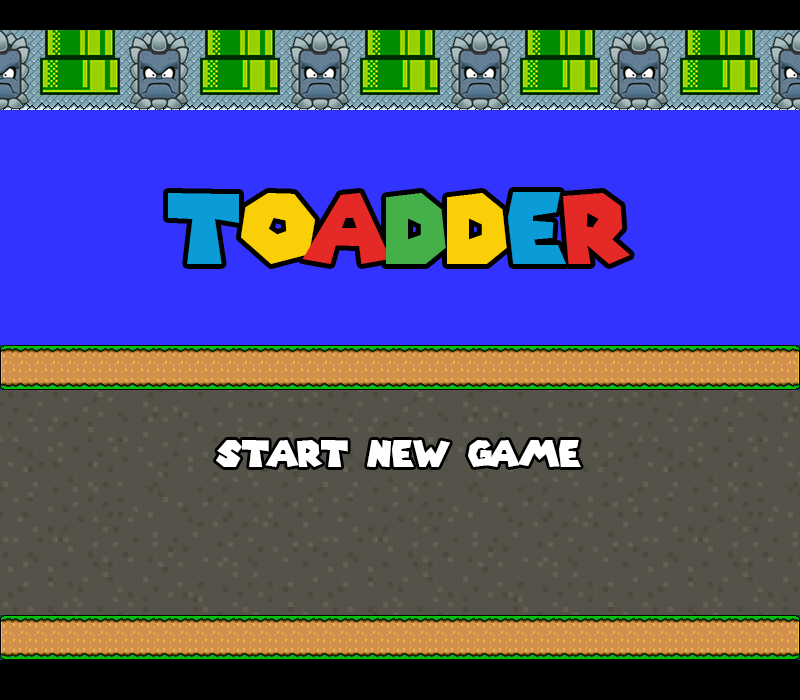
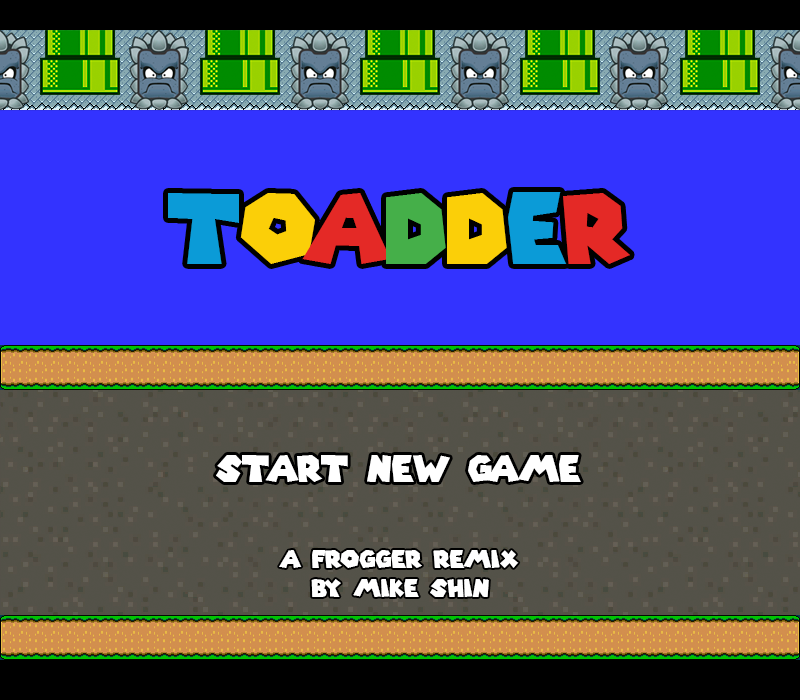
aligned link text with click listener

Changed region(s): [[0.25, 0.6, 0.75, 0.69], [0.3438, 0.78, 0.6562, 0.87]]

diff --git a/lib/toadder.js b/lib/toadder.js
@@ -22,14 +22,14 @@ document.addEventListener("DOMContentLoaded", function(){
     links.forEach(function(link) {
       ctx.fillStyle = "#ffffff";
       ctx.font = "20px sans-serif";
-      ctx.fillText(link.text, link.xPos, link.yPos);
+      ctx.fillText(link.text, link.xPos, link.yPos + 20);
     });
   };
 
 
   canvasEl.addEventListener("click", function(event){
     var game = new Game();
-    var button = { yPos: 430, xPos: 200, xDim: 400, yDim: 60 };
+    var button = { yPos: 445, xPos: 200, xDim: 400, yDim: 60 };
 
     var x = event.pageX - canvasElLeft,
         y = event.pageY - canvasElTop;
@@ -61,7 +61,10 @@ document.addEventListener("DOMContentLoaded", function(){
 });
 
 links.push(
-  { url: "http://michaelkshin.com", text: "michaelkshin.com", xPos: 50, yPos: 680, yDim: 20 },
-  { url: "http://github.com/whomikeshin", text: "github/whomikeshin", xPos: 300, yPos: 680, yDim: 20 },
-  { url: "https://www.linkedin.com/in/mikekshin", text: "linkedin/mikekshin", xPos: 550, yPos: 680, yDim: 20 }
+  { url: "http://michaelkshin.com", text: "Portfolio",
+    xPos: 100, yPos: 665, yDim: 20, mouseOver: false },
+  { url: "http://github.com/whomikeshin", text: "Github",
+    xPos: 367, yPos: 665, yDim: 20, mouseOver: false },
+  { url: "https://www.linkedin.com/in/mikekshin", text: "LinkedIn",
+    xPos: 634, yPos: 665, yDim: 20, mouseOver: false }
 );

diff --git a/lib/bundle.js b/lib/bundle.js
@@ -68,14 +68,14 @@
 	    links.forEach(function(link) {
 	      ctx.fillStyle = "#ffffff";
 	      ctx.font = "20px sans-serif";
-	      ctx.fillText(link.text, link.xPos, link.yPos);
+	      ctx.fillText(link.text, link.xPos, link.yPos + 20);
 	    });
 	  };
 	
 	
 	  canvasEl.addEventListener("click", function(event){
 	    var game = new Game();
-	    var button = { yPos: 430, xPos: 200, xDim: 400, yDim: 60 };
+	    var button = { yPos: 445, xPos: 200, xDim: 400, yDim: 60 };
 	
 	    var x = event.pageX - canvasElLeft,
 	        y = event.pageY - canvasElTop;
@@ -107,9 +107,12 @@
 	});
 	
 	links.push(
-	  { url: "http://michaelkshin.com", text: "michaelkshin.com", xPos: 50, yPos: 680, yDim: 20 },
-	  { url: "http://github.com/whomikeshin", text: "github/whomikeshin", xPos: 300, yPos: 680, yDim: 20 },
-	  { url: "https://www.linkedin.com/in/mikekshin", text: "linkedin/mikekshin", xPos: 550, yPos: 680, yDim: 20 }
+	  { url: "http://michaelkshin.com", text: "Portfolio",
+	    xPos: 100, yPos: 665, yDim: 20, mouseOver: false },
+	  { url: "http://github.com/whomikeshin", text: "Github",
+	    xPos: 367, yPos: 665, yDim: 20, mouseOver: false },
+	  { url: "https://www.linkedin.com/in/mikekshin", text: "LinkedIn",
+	    xPos: 634, yPos: 665, yDim: 20, mouseOver: false }
 	);
 
 
